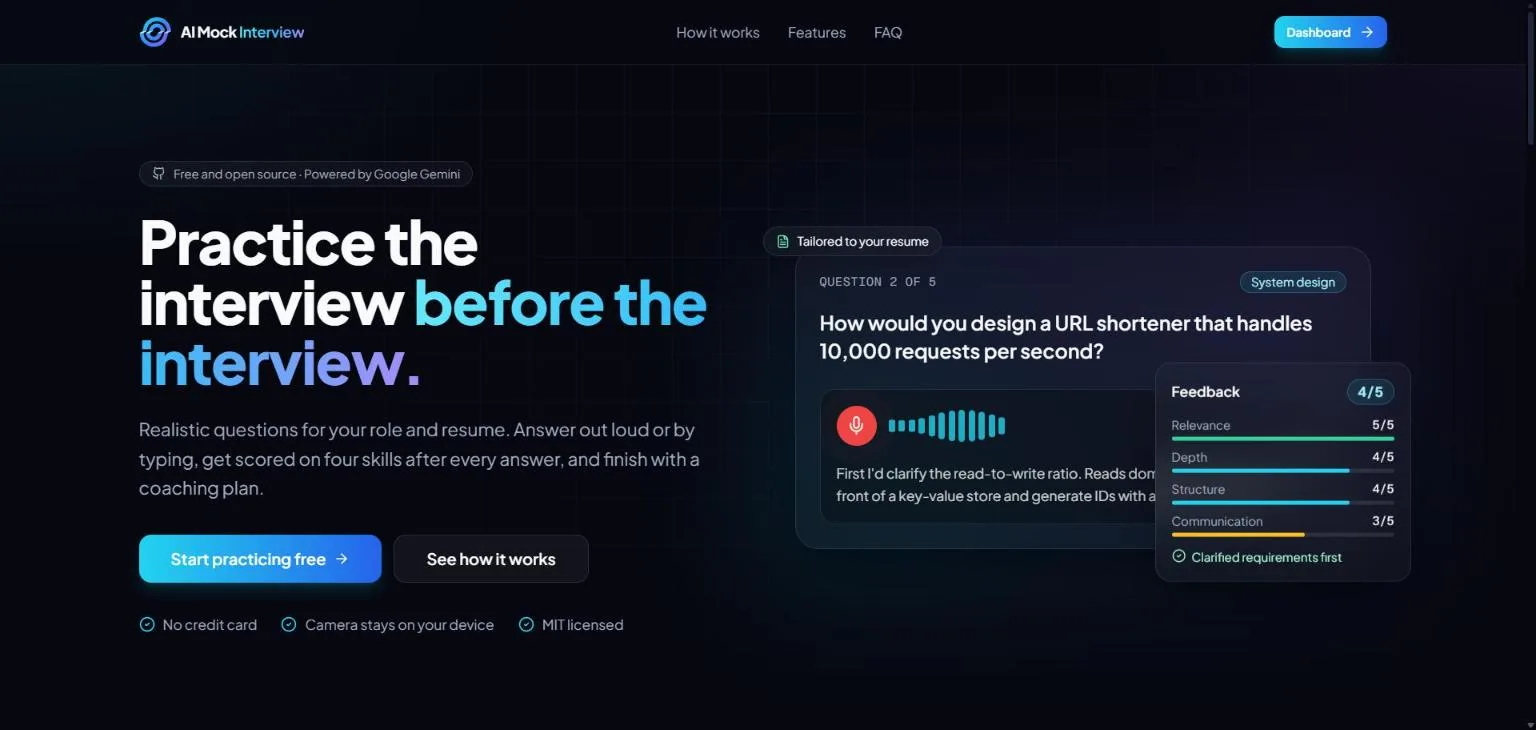
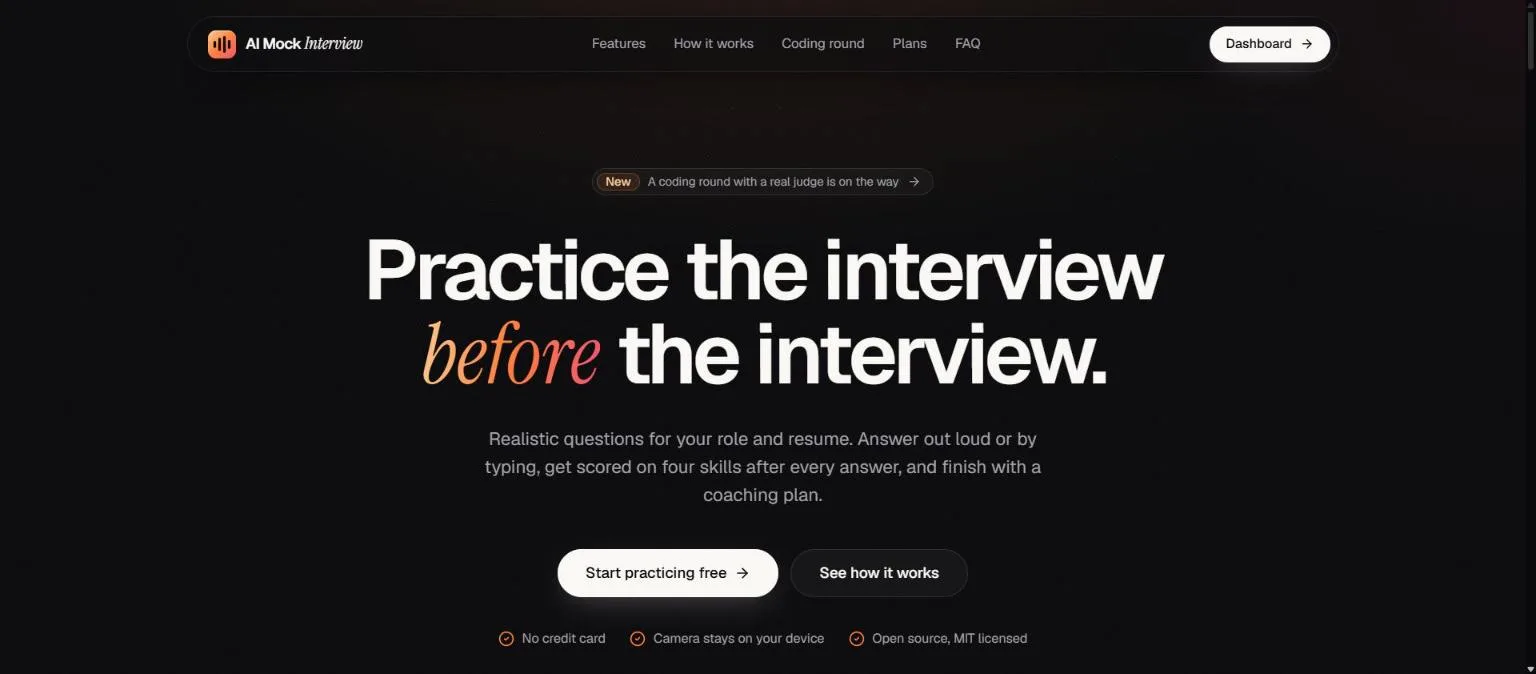
docs: screenshots, README and LICENSE for the redesign
- New README screenshots and social card, taken from the redesigned
  app.
- The README describes the new design system, fonts and icon script,
  and credits Radix UI and Lucide instead of shadcn/ui.
- The CHANGELOG lists the redesign.
- LICENSE now carries only the current copyright line. The redesign
  rewrote or removed every part of the original project; what is left
  is boilerplate such as braces, imports, the standard .gitignore and
  dependency names.

diff --git a/README.md b/README.md
@@ -98,7 +98,7 @@ The browser never talks to the database or Gemini directly and never sees their 
 | Layer | Technology |
 | --- | --- |
 | Framework | [Next.js 16](https://nextjs.org) (App Router, server components and actions, Turbopack), React 19 |
-| UI | Tailwind CSS 3 with design tokens, [shadcn/ui](https://ui.shadcn.com) and Radix UI, Lucide icons, Sonner toasts |
+| UI | Tailwind CSS 3 with "Ember", a custom design system (CSS-variable tokens, CSS-only motion), Geist and Instrument Serif fonts, Lucide icons, Sonner toasts |
 | Auth | [Clerk](https://clerk.com) |
 | Database | [Neon](https://neon.tech) serverless Postgres, [Drizzle ORM](https://orm.drizzle.team) with versioned migrations |
 | AI | Google Gemini via [`@google/genai`](https://www.npmjs.com/package/@google/genai), with a model fallback chain |
@@ -173,7 +173,7 @@ Run `npm run db:migrate` against your database once before the first deploy.
 | `npm run db:generate` | Create a migration after changing `utils/schema.js` |
 | `npm run db:push` | Sync the schema without a migration (quick local experiments only) |
 | `npm run db:studio` | Browse the database in Drizzle Studio |
-| `node scripts/generate-icons.mjs` | Regenerate the favicon and app icons from `public/logo.svg` |
+| `node scripts/generate-icons.mjs` | Draw the logo mark and regenerate the favicon and every app icon |
 
 ## Project structure
 
@@ -192,7 +192,7 @@ app/
       start/             Interview room: questions, answers, instant feedback
       feedback/          Interview report and AI coach summary
   opengraph-image.jsx    Generated social card; robots.js, sitemap.js, manifest.js for SEO and PWA
-components/              UI kit (shadcn/ui), brand, interview widgets and site chrome
+components/              UI kit, brand, landing page illustrations, interview widgets and site chrome
 drizzle/                 Versioned SQL migrations
 utils/
   gemini.js              Gemini client with model fallback and timeouts (server-only)
@@ -253,8 +253,8 @@ This project follows [Semantic Versioning](https://semver.org). Each version is 
 
 ## Acknowledgements
 
-- [Google Gemini](https://ai.google.dev), [Clerk](https://clerk.com), [Neon](https://neon.tech), [Drizzle ORM](https://orm.drizzle.team), [shadcn/ui](https://ui.shadcn.com) and the [Next.js](https://nextjs.org) team.
-- [Plus Jakarta Sans](https://fonts.google.com/specimen/Plus+Jakarta+Sans) and [Geist Mono](https://vercel.com/font), both under the SIL Open Font License.
+- [Google Gemini](https://ai.google.dev), [Clerk](https://clerk.com), [Neon](https://neon.tech), [Drizzle ORM](https://orm.drizzle.team), [Radix UI](https://www.radix-ui.com), [Lucide](https://lucide.dev) and the [Next.js](https://nextjs.org) team.
+- [Geist and Geist Mono](https://vercel.com/font) and [Instrument Serif](https://fonts.google.com/specimen/Instrument+Serif), all under the SIL Open Font License.
 
 ## Contact
 

diff --git a/CHANGELOG.md b/CHANGELOG.md
@@ -15,7 +15,19 @@ and this project adheres to [Semantic Versioning](https://semver.org/spec/v2.0.0
 
 ### Changed
 
+- **A complete redesign, "Ember".** It brings a new logo and app icons, a warm ember-on-black palette, Geist with Instrument Serif accents, and a floating header with a mobile menu. The landing page is new: a product preview, a grid of feature cards, the plans and an FAQ with smooth accordions. Every app screen is restyled too.
+- Motion is CSS-only: sections rise into view with scroll-driven animations, and there is no blur behind large areas, so scrolling stays smooth. Everything respects the reduced-motion setting.
+- The UI components (button, badge, input, text area and dialog) are rewritten from scratch. The dialog is built on the browser's native `<dialog>`.
+- The copyright notice in LICENSE now lists only the current author, because none of the original project's code remains.
 - The FAQ explains the plans and when the coding round is coming. The header and footer link to the new sections, and the tech stack on the landing page lists Go and Docker.
+
+### Removed
+
+- The `@radix-ui/react-dialog`, `class-variance-authority` and `tailwindcss-animate` dependencies, which the new components no longer need.
+
+### Fixed
+
+- The dashboard says "1 question answered" instead of "1 questions answered".
 
 ## [1.2.0] - 2026-11-22
 
